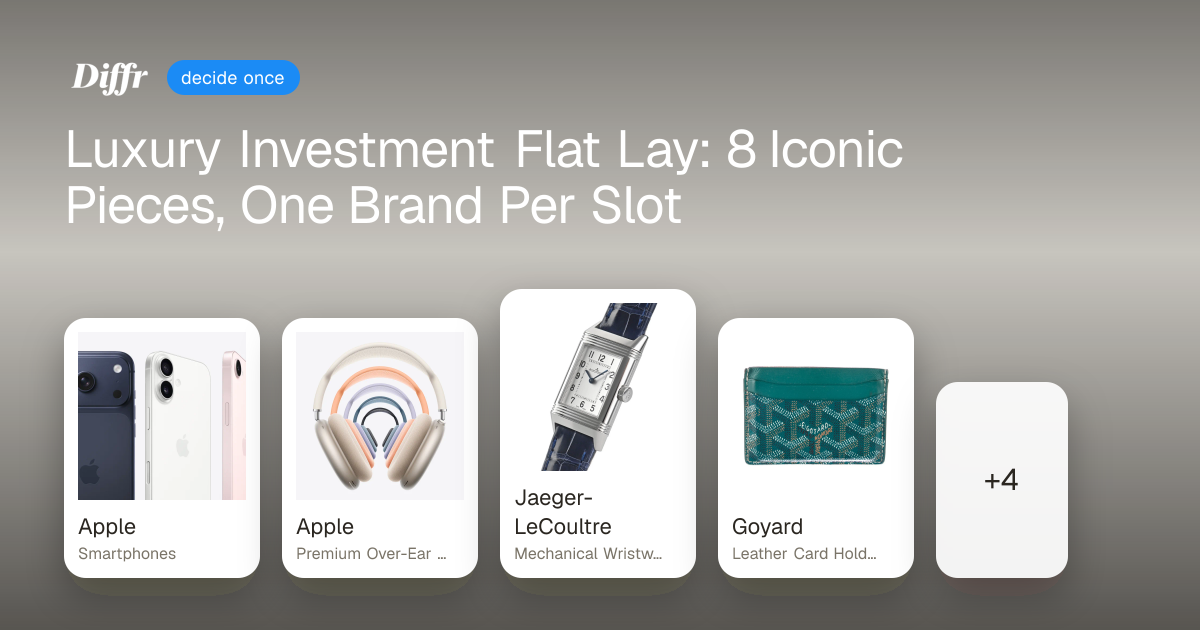
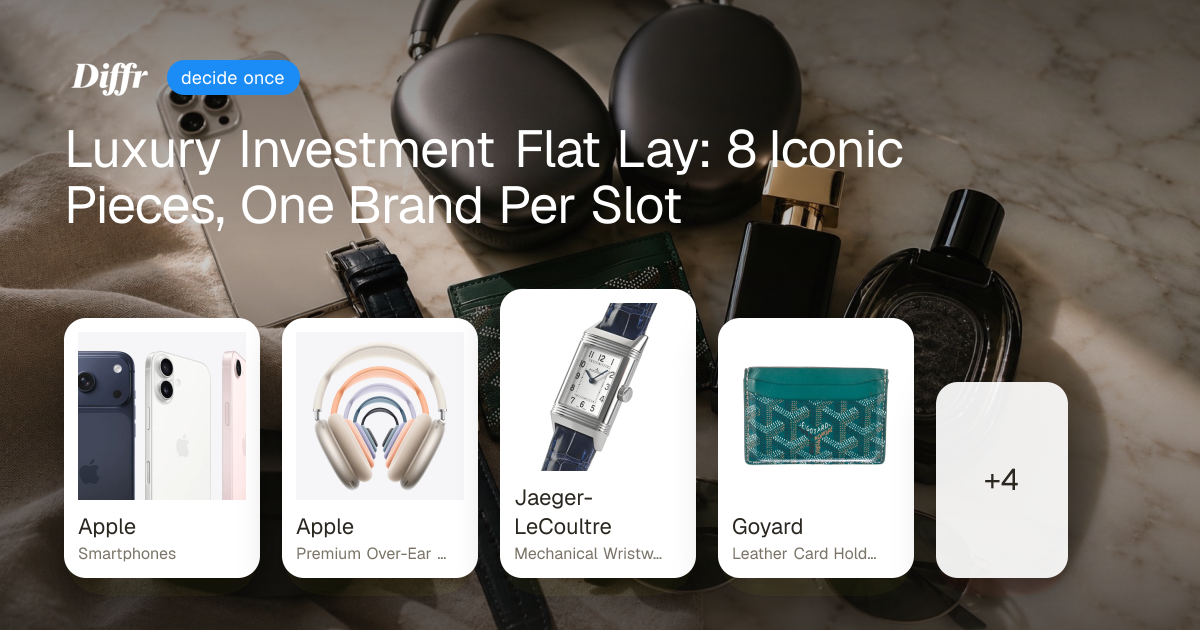
Prefer PNG share cards with cache-bust for X/Twitter OG fetch.
Re-bake luxury guide with flat lay background; sharp JPEG was not rendering in X Card Validator despite valid meta tags.

diff --git a/app/diffr/blog/static-og.ts b/app/diffr/blog/static-og.ts
@@ -1,16 +1,22 @@
-import { existsSync } from 'fs'
+import { existsSync, statSync } from 'fs'
 import { join } from 'path'
 
 const SHARE_DIR = join(process.cwd(), 'public', 'diffr', 'blog', 'share')
 
-/** Pre-baked share JPG in public/diffr/blog/share/ — under /diffr/blog/ for crawlers. */
+/** Append ?v=mtime so X/Facebook re-fetch after rebakes (they cache cards ~7 days). */
+function withVersion(filePath: string, url: string): string {
+  const v = Math.floor(statSync(filePath).mtimeMs / 1000)
+  return `${url}?v=${v}`
+}
+
+/** Pre-baked share PNG/JPG — CDN-static for social crawlers (dynamic /og/ times out on X). */
 export function bakedOgUrl(slug: string): string | null {
-  const jpg = join(SHARE_DIR, `${slug}.jpg`)
   const png = join(SHARE_DIR, `${slug}.png`)
-  if (existsSync(jpg)) return `https://truake.com/diffr/blog/share/${slug}.jpg`
-  if (existsSync(png)) return `https://truake.com/diffr/blog/share/${slug}.png`
-  // Legacy path (pre-share migration)
+  const jpg = join(SHARE_DIR, `${slug}.jpg`)
+  // PNG first — X handles PNG more reliably than sharp JPEG encodes
+  if (existsSync(png)) return withVersion(png, `https://truake.com/diffr/blog/share/${slug}.png`)
+  if (existsSync(jpg)) return withVersion(jpg, `https://truake.com/diffr/blog/share/${slug}.jpg`)
   const legacy = join(process.cwd(), 'public', 'og', `${slug}.png`)
-  if (existsSync(legacy)) return `https://truake.com/og/${slug}.png`
+  if (existsSync(legacy)) return withVersion(legacy, `https://truake.com/og/${slug}.png`)
   return null
 }

diff --git a/next.config.ts b/next.config.ts
@@ -28,6 +28,25 @@ const nextConfig: NextConfig = {
           },
         ],
       },
+      // Baked share cards — social crawlers fetch these via twitter:image / og:image.
+      {
+        source: "/diffr/blog/share/:file*",
+        headers: [
+          {
+            key: "Cache-Control",
+            value: "public, max-age=31536000, immutable",
+          },
+        ],
+      },
+      {
+        source: "/og/:file*",
+        headers: [
+          {
+            key: "Cache-Control",
+            value: "public, max-age=31536000, immutable",
+          },
+        ],
+      },
     ];
   },
 };

diff --git a/scripts/bake-og.ts b/scripts/bake-og.ts
@@ -30,6 +30,9 @@ async function bake(slug: string): Promise<void> {
   }
   const buf = Buffer.from(await res.arrayBuffer())
   writeFileSync(join(OUT, `${slug}.png`), buf)
+  const legacyOg = join(process.cwd(), 'public', 'og', `${slug}.png`)
+  mkdirSync(join(process.cwd(), 'public', 'og'), { recursive: true })
+  writeFileSync(legacyOg, buf)
   try {
     const { default: sharp } = await import('sharp')
     const jpg = await sharp(buf).jpeg({ quality: 88 }).toBuffer()
